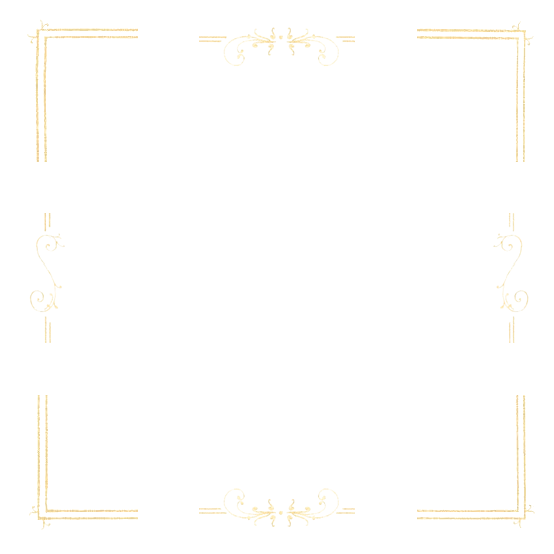
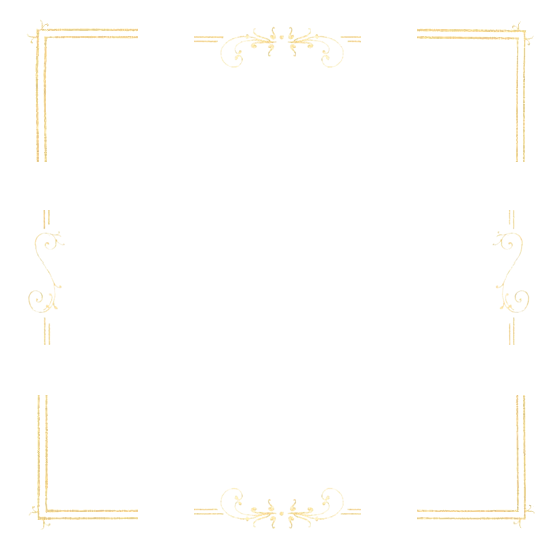
fix auth

diff --git a/generator.html b/generator.html
@@ -775,7 +775,7 @@ if (isTop100Generator) {
 const SIZE = 1080;        // canvas px
 const DEFAULT_GAP = 20;   // 20px gap = 530px cells on a 1080px canvas
 const DEFAULT_CR = 50;    // corner radius
-const TOP100_CANVAS_SIZE = 1440;
+const TOP100_CANVAS_SIZE = 1400;
 const TOP100_GRID_SIZE = SIZE;
 const TOP100_SLIDE_MARGIN = 34;
 const TOP100_SLIDE_GUTTER = 12;
@@ -4383,17 +4383,17 @@ function drawTop100SlideAuraFrame(ctx, x, y, w, h) {
     const frameY = y + (h - frameH) / 2;
     ctx.save();
     ctx.globalCompositeOperation = 'screen';
-    ctx.shadowColor = 'rgba(246,200,75,0.22)';
-    ctx.shadowBlur = 18;
-    ctx.globalAlpha = 0.26;
-    ctx.filter = 'brightness(1.08) saturate(1.02)';
+    ctx.shadowColor = 'rgba(246,200,75,0.28)';
+    ctx.shadowBlur = 19;
+    ctx.globalAlpha = 0.32;
+    ctx.filter = 'brightness(1.12) saturate(1.04)';
     ctx.drawImage(frame, frameX, frameY, frameW, frameH);
     ctx.shadowBlur = 0;
-    ctx.globalAlpha = 0.42;
-    ctx.filter = 'brightness(1.03) saturate(1)';
+    ctx.globalAlpha = 0.50;
+    ctx.filter = 'brightness(1.06) saturate(1.02)';
     ctx.drawImage(frame, frameX, frameY, frameW, frameH);
-    ctx.globalAlpha = 0.08;
-    ctx.filter = 'blur(1.2px) brightness(1.16)';
+    ctx.globalAlpha = 0.10;
+    ctx.filter = 'blur(1.2px) brightness(1.20)';
     ctx.drawImage(frame, frameX - 3, frameY - 3, frameW + 6, frameH + 6);
     ctx.restore();
     return;
